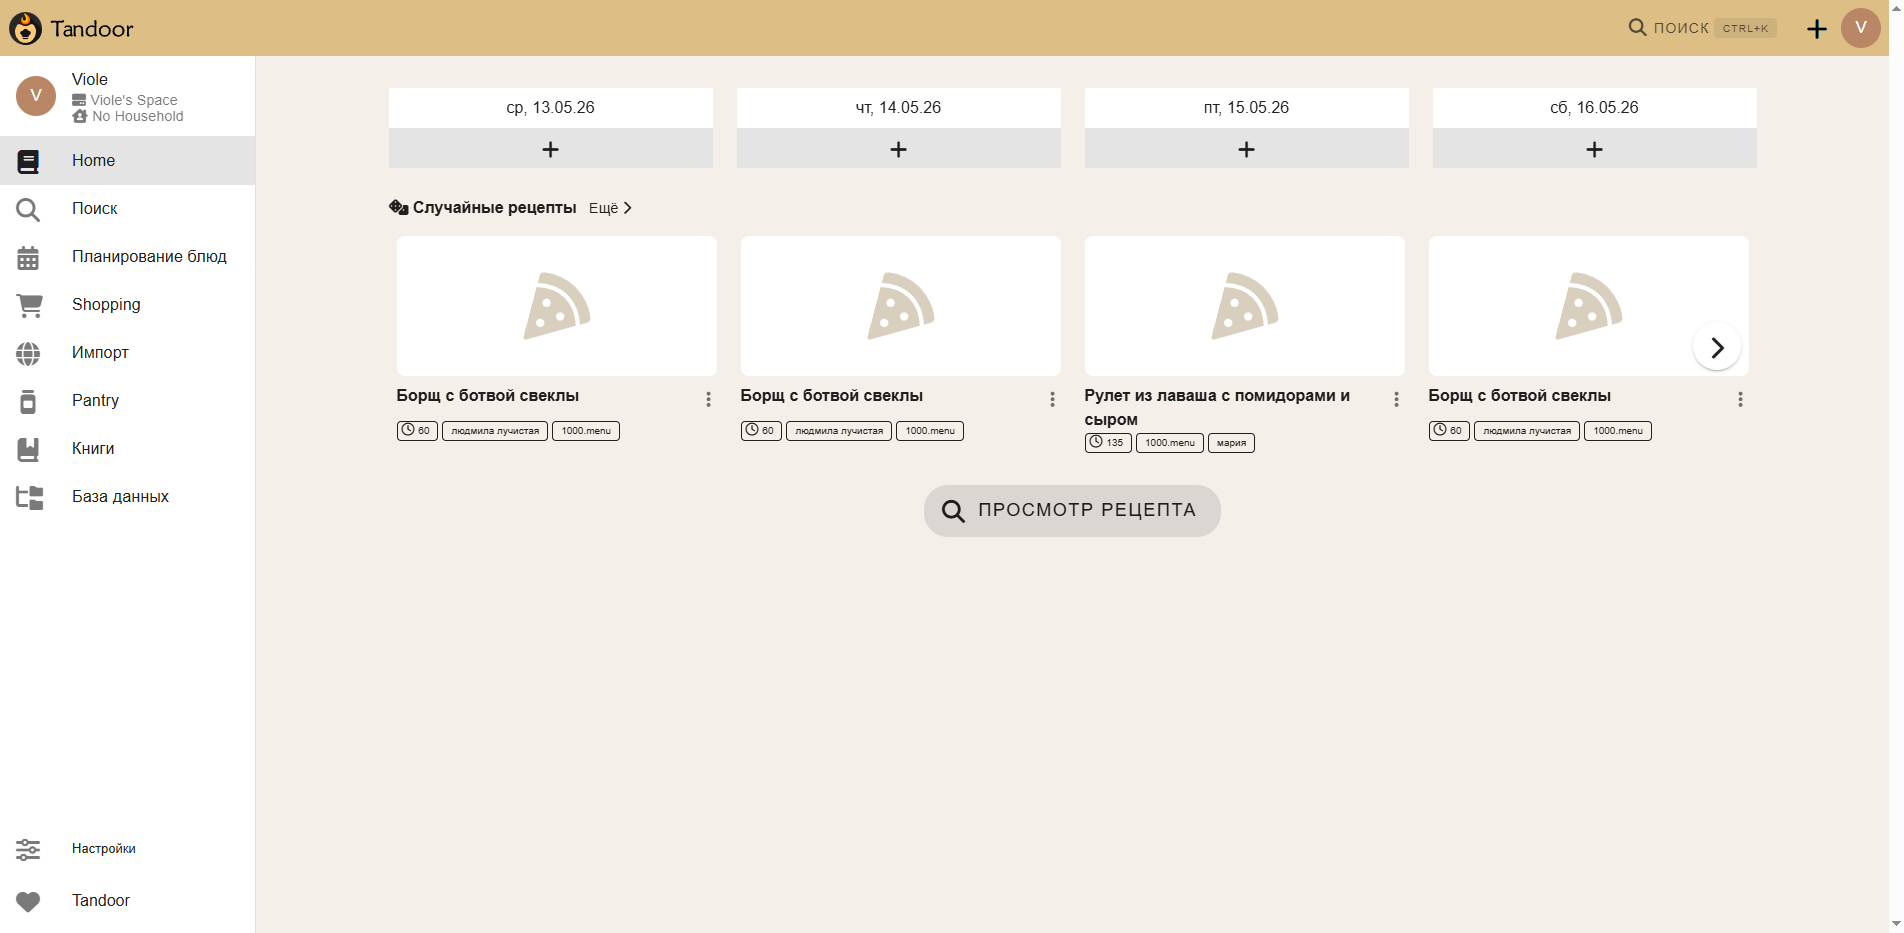
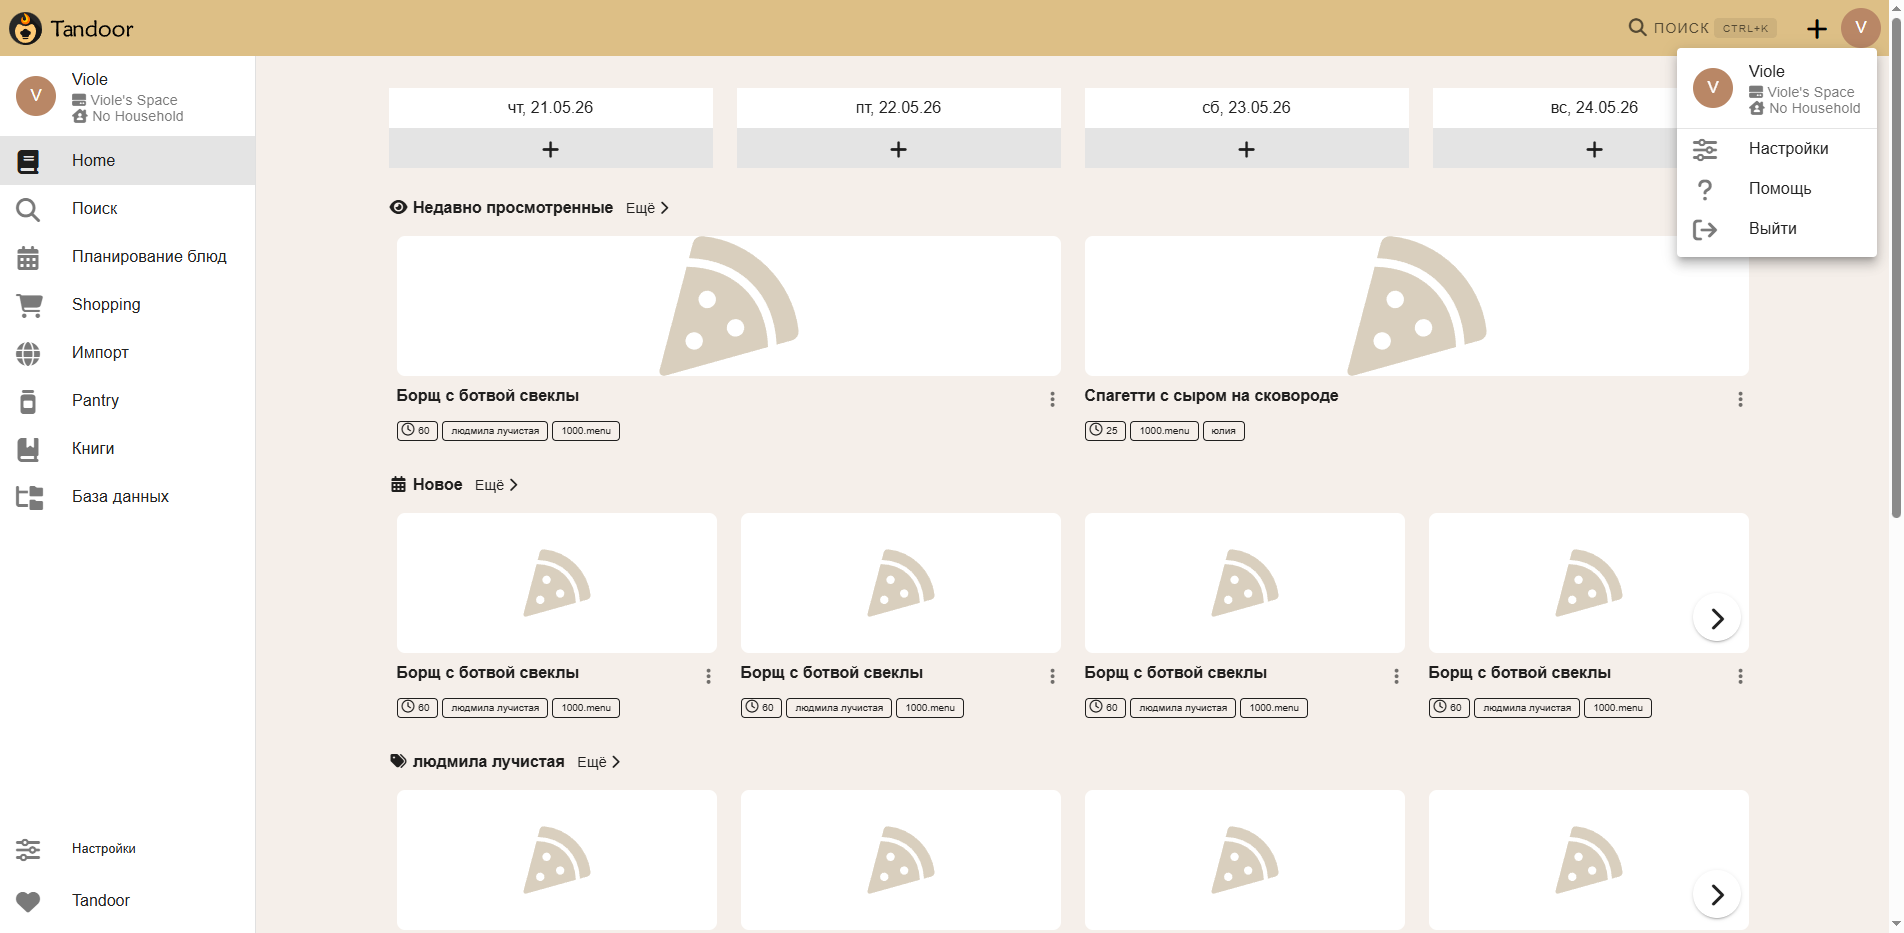
Improve GitLab CI pipeline

diff --git a/components/header_component.py b/components/header_component.py
@@ -1,50 +1,36 @@
 from selenium.webdriver.common.by import By
-
-from pages.base_page import BasePage
-
-import time
+from selenium.webdriver.support.ui import WebDriverWait
+from selenium.webdriver.support import expected_conditions as EC
 
 
-class HeaderComponent(BasePage):
+class HeaderComponent:
 
-    MEAL_PLAN_BUTTON = (
-        By.XPATH,
-        "//a[contains(@href, 'meal-plan')]"
+    PROFILE_AVATAR = (
+        By.CSS_SELECTOR,
+        "div.v-avatar.cursor-pointer"
     )
 
-    SHOPPING_LIST_BUTTON = (
-        By.XPATH,
-        "//a[contains(@href, 'shopping')]"
-    )
+    def __init__(self, driver):
 
-    PROFILE_BUTTON = (
-        By.XPATH,
-        "//div[contains(@class, 'v-avatar') and contains(@class, 'cursor-pointer')]"
-    )
+        self.driver = driver
 
-    LOGOUT_BUTTON = (
-        By.XPATH,
-        "//div[contains(text(), 'Выйти')]"
-    )
-
-    def open_meal_plan(self):
-
-        self.click(self.MEAL_PLAN_BUTTON)
-
-    def open_shopping_list(self):
-
-        self.click(self.SHOPPING_LIST_BUTTON)
-
-    def open_profile_menu(self):
-
-        self.click(self.PROFILE_BUTTON)
-
-        time.sleep(2)
+        self.wait = WebDriverWait(
+            driver,
+            20
+        )
 
     def is_user_logged_in(self):
 
-        self.open_profile_menu()
+        try:
 
-        return self.wait_for_element(
-            self.LOGOUT_BUTTON
-        ).is_displayed()
+            self.wait.until(
+                EC.visibility_of_element_located(
+                    self.PROFILE_AVATAR
+                )
+            )
+
+            return True
+
+        except Exception:
+
+            return False

diff --git a/tests/test_api_client.py b/tests/test_api_client.py
@@ -1,6 +1,9 @@
 import allure
 
+import pytest
 
+
[email redacted]
 @allure.feature("API")
 @allure.story("Get recipes")
 def test_get_recipes(api_client):
@@ -22,6 +25,7 @@ def test_get_recipes(api_client):
         assert "results" in response
 
 
[email redacted]
 @allure.feature("API")
 @allure.story("Import recipe")
 def test_import_recipe(api_client, recipe_data):
@@ -47,6 +51,7 @@ def test_import_recipe(api_client, recipe_data):
         assert "id" in response
 
 
[email redacted]
 @allure.feature("API")
 @allure.story("Delete recipe")
 def test_delete_recipe(api_client, recipe_data):
@@ -89,6 +94,7 @@ def test_delete_recipe(api_client, recipe_data):
         assert recipe_id not in recipe_ids
 
 
[email redacted]
 @allure.feature("API")
 @allure.story("API connection")
 def test_api_connection(api_client):
@@ -106,6 +112,7 @@ def test_api_connection(api_client):
         assert "results" in response
 
 
[email redacted]
 @allure.feature("API")
 @allure.story("API headers")
 def test_api_client_headers(api_client):

diff --git a/conftest.py b/conftest.py
@@ -162,9 +162,8 @@ def driver():
 
     chrome_options = Options()
 
-    chrome_options.add_argument(
-        "--headless"
-    )
+    if os.getenv("CI"):
+        chrome_options.add_argument("--headless")
 
     chrome_options.add_argument(
         "--window-size=1920,1080"

diff --git a/pages/meal_plan_page.py b/pages/meal_plan_page.py
@@ -172,8 +172,6 @@ class MealPlanPage(BasePage):
             recipe_element
         )
 
-        time.sleep(1)
-
         try:
             recipe_element.click()
 
@@ -434,8 +432,6 @@ class MealPlanPage(BasePage):
             "arguments[0].scrollIntoView({block: 'center'});",
             recipe_plan
         )
-
-        time.sleep(1)
 
         self.driver.execute_script(
             "arguments[0].click();",

diff --git a/tests/test_recipies.py b/tests/test_recipies.py
@@ -1,8 +1,10 @@
 import allure
+import pytest
 
 from api.client import TandoorAPIClient
 
 
[email redacted]
 @allure.feature("API")
 @allure.story("Get recipes without fixture")
 def test_get_recipes():

diff --git a/README.md b/README.md
@@ -270,6 +270,15 @@ qa_auto_tandoor/
 
 Issue был оформлен отдельно.
 
+
+## Возможные улучшения
+
+- негативные сценарии авторизации
+- параметризация тестов
+- проверка поиска рецептов
+- параллельный запуск
+- Docker
+- Jenkins
 ---
 
 # Автор